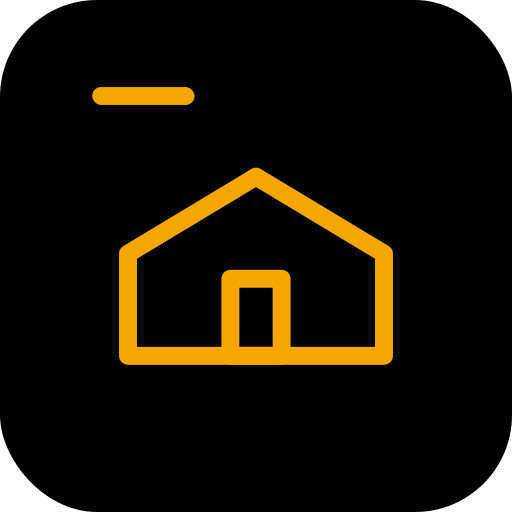
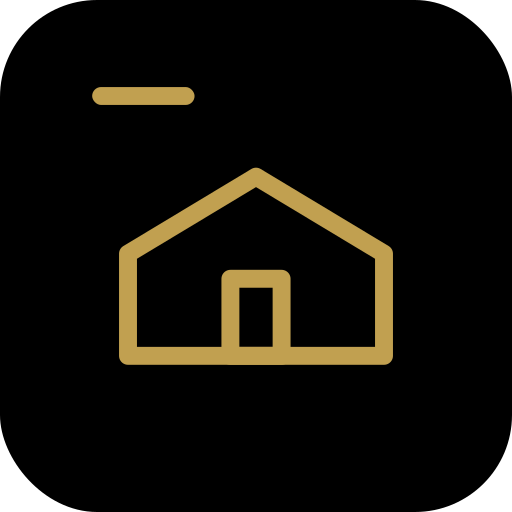
changed frontend design

Changed region(s): [[0.2188, 0.3125, 0.7812, 0.7188], [0.1875, 0.1562, 0.375, 0.2188]]

diff --git a/client/src/index.css b/client/src/index.css
@@ -4,7 +4,7 @@
   --fog: #f3f2ef;
   --line: #dedcd6;
   --mute: #6e6c66;
-  --acc: #f7a600;
+  --acc: #c1a050;
   --red: #c62828;
 
   /* spacing scale */
@@ -28,8 +28,8 @@
   --sh-2: 0 2px 6px rgba(0, 0, 0, 0.04), 0 8px 24px rgba(0, 0, 0, 0.07);
   --sh-3: 0 12px 32px rgba(0, 0, 0, 0.16);
   --sh-up: 0 -6px 24px rgba(0, 0, 0, 0.08);
-  --sh-acc: 0 6px 18px rgba(247, 166, 0, 0.35);
-  --ring: 0 0 0 4px rgba(247, 166, 0, 0.3);
+  --sh-acc: 0 6px 18px rgba(193, 160, 80, 0.35);
+  --ring: 0 0 0 4px rgba(193, 160, 80, 0.3);
 
   /* layout */
   --tabbar-h: 68px;
@@ -121,10 +121,10 @@ a, button, .tile, .card, .tab, .mtab {
 .btn-dark:active, .btn-light:active, .btn-mini:active, .voice-btn:active, .seg button:active {
   transform: scale(0.975);
 }
-.btn-primary:active { box-shadow: 0 2px 8px rgba(247, 166, 0, 0.3); }
+.btn-primary:active { box-shadow: 0 2px 8px rgba(193, 160, 80, 0.3); }
 .btn-secondary:active, .btn-danger:active { background: var(--fog); }
 @media (hover: hover) {
-  .btn-primary:hover:not(:disabled) { box-shadow: 0 8px 24px rgba(247, 166, 0, 0.45); }
+  .btn-primary:hover:not(:disabled) { box-shadow: 0 8px 24px rgba(193, 160, 80, 0.45); }
   .btn-secondary:hover:not(:disabled) { background: var(--fog); }
 }
 button:disabled { opacity: 0.45; cursor: default; box-shadow: none; transform: none; }
@@ -944,8 +944,8 @@ a.orow:active { background: var(--line); }
 .work-stat .num { display: block; font-size: 26px; color: var(--paper); }
 .live { width: 10px; height: 10px; border-radius: 50%; background: var(--acc); animation: live 1.6s ease-out infinite; }
 @keyframes live {
-  0% { box-shadow: 0 0 0 0 rgba(247, 166, 0, 0.6); }
-  100% { box-shadow: 0 0 0 10px rgba(247, 166, 0, 0); }
+  0% { box-shadow: 0 0 0 0 rgba(193, 160, 80, 0.6); }
+  100% { box-shadow: 0 0 0 10px rgba(193, 160, 80, 0); }
 }
 
 .actionbar {
@@ -1212,3 +1212,142 @@ a.orow:active { background: var(--line); }
 .tr-dates { display: flex; gap: 10px; flex-wrap: wrap; }
 .tr-dates label { display: flex; flex-direction: column; gap: 4px; font-size: 12px; color: var(--mute); }
 .tr-dates input { height: 44px; padding: 0 14px; border: 1.5px solid var(--line); border-radius: 22px; font-size: 15px; font-family: inherit; color: var(--ink); background: var(--paper); }
+
+/* ===== NOAH look: warm paper, gold, calm motion ===== */
+:root {
+  --bg: #f6f4ef;
+  --fog: #ece8df;
+  --line: #dcd6c8;
+  --mute: #6f6a5f;
+  --r-lg: 22px;
+  --r-xl: 30px;
+}
+html, body { background: var(--bg); }
+body {
+  font-family: "Inter Variable", Inter, system-ui, -apple-system, "Segoe UI", Roboto, Arial, sans-serif;
+}
+h1, h2, h3 { letter-spacing: -0.03em; }
+
+.top { background: transparent; color: var(--ink); padding: calc(var(--s8) + var(--safe-t)) var(--s5) 40px; }
+.top h1 { font-size: clamp(34px, 9.5vw, 56px); font-weight: 650; letter-spacing: -0.045em; line-height: 1; }
+.top p { margin: var(--s3) 0 0; color: var(--mute); }
+.seg { margin: 0 var(--s5); }
+.day-btn { background: var(--paper); color: var(--ink); box-shadow: var(--sh-1); }
+.day-btn:active { background: var(--fog); }
+.date-input { background: var(--paper); box-shadow: var(--sh-1); }
+
+.detail-top { background: rgba(246, 244, 239, 0.88); }
+.tabs { background: rgba(246, 244, 239, 0.9); }
+@media (max-width: 899px) { .mside { background: rgba(246, 244, 239, 0.9); } }
+
+.card, .report-order, .panel, .section.panel, .kpi, .profile-card {
+  border: 0;
+  box-shadow: 0 1px 0 rgba(60, 45, 10, 0.04), 0 12px 32px rgba(60, 45, 10, 0.07);
+}
+@media (hover: hover) {
+  a.card:hover { box-shadow: 0 16px 40px rgba(60, 45, 10, 0.12); transform: translateY(-2px); }
+}
+
+.mlogo { padding: 0 var(--s3) var(--s6); }
+.mlogo img { display: block; width: 150px; height: auto; }
+
+/* motion */
+@keyframes pagein { from { opacity: 0; } }
+@keyframes rise { from { opacity: 0; transform: translateY(14px); } }
+@keyframes fadein { from { opacity: 0; } }
+@keyframes drift { to { transform: translate3d(0, -14px, 0); } }
+@keyframes kenburns { to { transform: scale(1.08); } }
+.page-in { animation: pagein 340ms var(--ease) backwards; }
+.list .card, .ocards .card, .report-order, .panel { animation: rise 520ms var(--ease) backwards; }
+.list .card:nth-child(2), .ocards .card:nth-child(2) { animation-delay: 60ms; }
+.list .card:nth-child(3), .ocards .card:nth-child(3) { animation-delay: 120ms; }
+.list .card:nth-child(n + 4), .ocards .card:nth-child(n + 4) { animation-delay: 180ms; }
+
+.login { max-width: 520px; background: var(--bg); }
+.login-photo {
+  position: relative;
+  flex: none;
+  height: 44vh;
+  height: 44dvh;
+  min-height: 300px;
+  max-height: 440px;
+  overflow: hidden;
+  background: #1b1a17;
+}
+.login-photo .bg {
+  position: absolute;
+  inset: 0;
+  width: 100%;
+  height: 100%;
+  object-fit: cover;
+  animation: fadein 900ms var(--ease) backwards, kenburns 26s ease-in-out infinite alternate;
+}
+.login-photo::after {
+  content: "";
+  position: absolute;
+  inset: 0;
+  background: linear-gradient(180deg, rgba(0, 0, 0, 0.5) 0%, rgba(0, 0, 0, 0) 38%, rgba(0, 0, 0, 0.62) 100%);
+}
+.login-brand { position: absolute; z-index: 2; top: calc(22px + var(--safe-t)); left: 24px; }
+.login-brand img { display: block; width: 132px; height: auto; }
+.login-tag { position: absolute; z-index: 2; left: 24px; right: 24px; bottom: 56px; color: #fff; }
+.login-tag h1 { margin: 0; font-size: clamp(30px, 9vw, 40px); font-weight: 650; letter-spacing: -0.045em; line-height: 1.02; }
+.login-tag p { margin: 8px 0 0; color: rgba(255, 255, 255, 0.85); font-size: 15px; }
+.login-sheet { background: var(--bg); margin-top: -32px; padding-top: 32px; box-shadow: none; }
+.login-sheet h2 { font-size: clamp(30px, 4vw, 40px); font-weight: 650; letter-spacing: -0.045em; }
+.login-lead { margin: -6px 0 var(--s2); color: var(--mute); font-size: 15px; }
+.login-sheet > * { animation: rise 620ms var(--ease) backwards; }
+.login-sheet > :nth-child(2) { animation-delay: 60ms; }
+.login-sheet > :nth-child(3) { animation-delay: 120ms; }
+.login-sheet > :nth-child(4) { animation-delay: 180ms; }
+.login-sheet > :nth-child(5) { animation-delay: 240ms; }
+.login-sheet > :nth-child(6) { animation-delay: 300ms; }
+.login-art { display: none; }
+
+@media (min-width: 900px) {
+  .login { max-width: none; display: grid; grid-template-columns: minmax(0, 1.25fr) minmax(440px, 1fr); }
+  .login-photo { display: none; }
+  .login-art { display: block; position: relative; min-height: 100vh; overflow: hidden; }
+  .login-art img {
+    position: absolute;
+    display: block;
+    object-fit: cover;
+    box-shadow: 0 30px 60px rgba(60, 45, 10, 0.14);
+    animation: fadein 1100ms var(--ease) backwards, drift 11s ease-in-out infinite alternate;
+  }
+  .login-art .art-logo {
+    left: 8%;
+    top: 5%;
+    width: 150px;
+    height: auto;
+    z-index: 2;
+    box-shadow: none;
+    object-fit: contain;
+    animation: fadein 900ms var(--ease) backwards;
+  }
+  .login-art .a1 { left: 8%; top: 14%; width: 40%; height: 56%; object-position: 28% 50%; animation-delay: 100ms, 0s; }
+  .login-art .a2 { right: 7%; top: 24%; width: 36%; aspect-ratio: 4 / 3; animation-delay: 300ms, -4s; animation-duration: 1100ms, 13s; }
+  .login-art .a3 { left: 30%; bottom: 7%; width: 34%; aspect-ratio: 16 / 10; animation-delay: 500ms, -7s; animation-duration: 1100ms, 15s; }
+  .art-meta {
+    position: absolute;
+    right: 7%;
+    bottom: 5%;
+    display: flex;
+    gap: 10px;
+    margin: 0;
+    font-size: 13px;
+    color: var(--mute);
+    font-variant-numeric: tabular-nums;
+  }
+  .login-sheet {
+    flex: none;
+    align-self: center;
+    justify-self: center;
+    width: 100%;
+    max-width: 440px;
+    margin: 0;
+    padding: 0 40px;
+    background: transparent;
+    border-radius: 0;
+  }
+}

diff --git a/client/src/pages/Login.tsx b/client/src/pages/Login.tsx
@@ -1,8 +1,64 @@
-import { useState, type FormEvent } from "react";
+import { useEffect, useState, type FormEvent } from "react";
 import { useAuth } from "../auth";
+import { useMedia } from "../useMedia";
+
+const img = (name: string) => ({
+  src: `/photos/${name}-800.webp`,
+  srcSet: `/photos/${name}-800.webp 800w, /photos/${name}-1600.webp 1600w`,
+});
+
+function Clock() {
+  const [now, setNow] = useState(() => new Date());
+  useEffect(() => {
+    const t = setInterval(() => setNow(new Date()), 20000);
+    return () => clearInterval(t);
+  }, []);
+  return (
+    <>
+      {now.toLocaleTimeString("sl-SI", {
+        hour: "2-digit",
+        minute: "2-digit",
+        timeZone: "Europe/Ljubljana",
+      })}
+    </>
+  );
+}
+
+function PhoneHero() {
+  return (
+    <div className="login-photo">
+      <img className="bg" {...img("house-real")} sizes="100vw" alt="" />
+      <div className="login-brand">
+        <img src="/noah-logo-light.png" alt="NOAH Houses" />
+      </div>
+      <div className="login-tag">
+        <h1>Delovni nalogi</h1>
+        <p>Delo na gradbišču, na enem mestu.</p>
+      </div>
+    </div>
+  );
+}
+
+function DesktopArt() {
+  return (
+    <div className="login-art" aria-hidden="true">
+      <img className="art-logo" src="/noah-logo-dark.png" alt="" />
+      <img className="a1" {...img("house-real")} sizes="30vw" alt="" />
+      <img className="a2" {...img("house-render-b")} sizes="30vw" alt="" />
+      <img className="a3" {...img("house-render-a")} sizes="28vw" alt="" />
+      <p className="art-meta">
+        <span>MB</span>
+        <span>
+          <Clock />
+        </span>
+      </p>
+    </div>
+  );
+}
 
 export default function Login() {
   const { login } = useAuth();
+  const desktop = useMedia("(min-width: 900px)");
   const [email, setEmail] = useState("");
   const [password, setPassword] = useState("");
   const [error, setError] = useState("");
@@ -23,26 +79,10 @@ export default function Login() {
 
   return (
     <div className="login">
-      <div className="login-hero">
-        <div className="hero-deco" aria-hidden="true" />
-        <div className="logo-mark" aria-hidden="true">
-          <svg width="30" height="30" viewBox="0 0 30 30" fill="none">
-            <path
-              d="M7 23V7l16 16V7"
-              stroke="currentColor"
-              strokeWidth="4.5"
-              strokeLinecap="round"
-              strokeLinejoin="round"
-            />
-          </svg>
-        </div>
-        <h1>NOAH</h1>
-        <div className="bar" />
-        <p className="hero-title">Delovni nalogi</p>
-        <p className="hero-sub">Delo na gradbišču, na enem mestu.</p>
-      </div>
+      {desktop ? <DesktopArt /> : <PhoneHero />}
       <form className="login-sheet" onSubmit={submit}>
         <h2>Prijava</h2>
+        {desktop && <p className="login-lead">Delovni nalogi. Delo na gradbišču, na enem mestu.</p>}
         <label>
           E-pošta
           <input

diff --git a/client/src/components/ManagerLayout.tsx b/client/src/components/ManagerLayout.tsx
@@ -1,15 +1,15 @@
-import { NavLink, Outlet } from "react-router-dom";
+import { NavLink, Outlet, useLocation } from "react-router-dom";
 import { IconManage, IconOverview, IconProjects, IconReport, IconUser } from "./Icons";
 
 const cls = ({ isActive }: { isActive: boolean }) => (isActive ? "mtab active" : "mtab");
 
 export default function ManagerLayout() {
+  const { pathname } = useLocation();
   return (
     <div className="mshell">
       <aside className="mside">
         <div className="mlogo">
-          <span className="mark" aria-hidden="true" />
-          NOAH
+          <img src="/noah-logo-light.png" alt="NOAH Houses" />
         </div>
         <nav>
           <NavLink to="/" end className={cls}>
@@ -34,7 +34,7 @@ export default function ManagerLayout() {
           </NavLink>
         </nav>
       </aside>
-      <main className="mmain">
+      <main key={pathname} className="mmain page-in">
         <Outlet />
       </main>
     </div>

diff --git a/client/src/components/Layout.tsx b/client/src/components/Layout.tsx
@@ -1,12 +1,13 @@
-import { NavLink, Outlet } from "react-router-dom";
+import { NavLink, Outlet, useLocation } from "react-router-dom";
 import { IconReport, IconTasks, IconUser } from "./Icons";
 
 const tabClass = ({ isActive }: { isActive: boolean }) => (isActive ? "tab active" : "tab");
 
 export default function Layout() {
+  const { pathname } = useLocation();
   return (
     <div className="shell">
-      <main className="shell-main">
+      <main key={pathname} className="shell-main page-in">
         <Outlet />
       </main>
       <nav className="tabs">

diff --git a/client/src/useMedia.ts b/client/src/useMedia.ts
@@ -1,0 +1,13 @@
+import { useEffect, useState } from "react";
+
+export function useMedia(query: string) {
+  const [matches, setMatches] = useState(() => window.matchMedia(query).matches);
+  useEffect(() => {
+    const mq = window.matchMedia(query);
+    const on = () => setMatches(mq.matches);
+    mq.addEventListener("change", on);
+    on();
+    return () => mq.removeEventListener("change", on);
+  }, [query]);
+  return matches;
+}

diff --git a/client/src/main.tsx b/client/src/main.tsx
@@ -4,6 +4,7 @@ import { BrowserRouter } from "react-router-dom";
 import { QueryClient, QueryClientProvider } from "@tanstack/react-query";
 import App from "./App";
 import { AuthProvider } from "./auth";
+import "@fontsource-variable/inter";
 import "./index.css";
 
 const queryClient = new QueryClient({

diff --git a/server/src/pdfTeam.ts b/server/src/pdfTeam.ts
@@ -39,7 +39,7 @@ export type TeamPdfReport = {
 };
 
 const INK = "#000000";
-const ACC = "#F7A600";
+const ACC = "#C1A050";
 const MUTE = "#6E6C66";
 const LINE = "#DEDCD6";
 const FOG = "#F3F2EF";

diff --git a/server/src/pdf.ts b/server/src/pdf.ts
@@ -22,7 +22,7 @@ export type PdfReport = {
 };
 
 const INK = "#000000";
-const ACC = "#F7A600";
+const ACC = "#C1A050";
 const MUTE = "#6E6C66";
 const LINE = "#DEDCD6";
 const FOG = "#F3F2EF";
